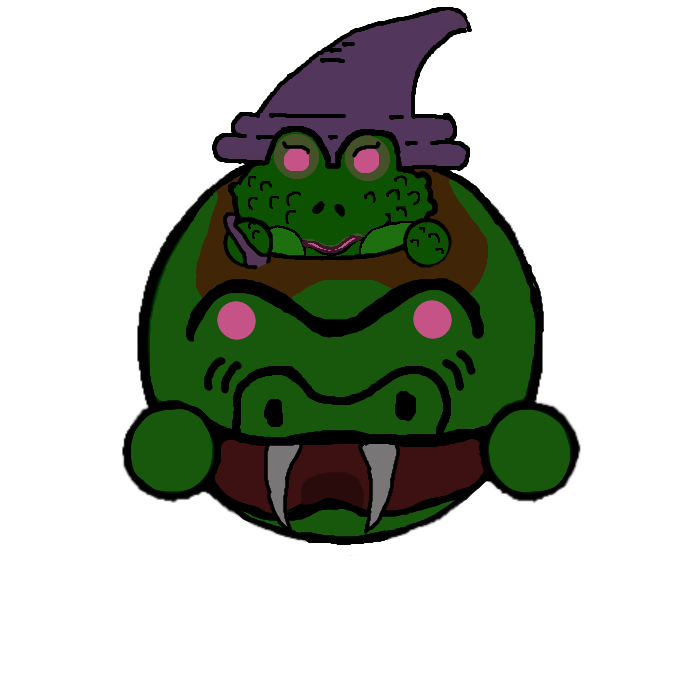
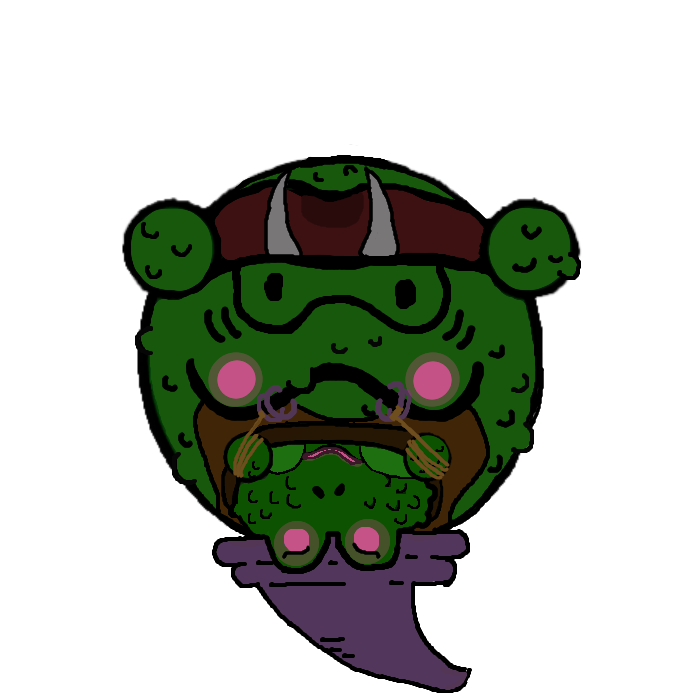
mounting and clouds

diff --git a/lib/monsters/witch.py b/lib/monsters/witch.py
@@ -5,12 +5,14 @@ from . import DefaultMonster
 from . import set_hitbox_monster
 from . import Flower
 
-#2 montures ? semi-invisible ?
+#2 montures ? semi-invisible ? little diamonds around wand ?
 
 class   Witch(DefaultMonster):
     name = "witch"
-    lives = 50
+    lives = 160
+    lives_dismount = 60
     id_nb = 17
+    cloud_speed = 6
 
     @classmethod
     def build_class(cls):
@@ -24,6 +26,11 @@ class   Witch(DefaultMonster):
         cls.img_invisible = cls.tools.set_imgs(cls.env.img_folder + 'monsters/', cls.name + '_invisible', cls.dimensions)
         cls.img_dead = cls.tools.set_imgs(cls.env.img_folder + 'monsters/', cls.name + '_dead', cls.dimensions)
         cls.img_possessed = cls.tools.set_imgs(cls.env.img_folder + 'monsters/', cls.name + '_possessed', cls.dimensions)
+        cls.img_mounting = cls.tools.set_imgs(cls.env.img_folder + 'monsters/', cls.name + '_mounting', cls.dimensions)
+        cls.img_mounting_injured = cls.tools.set_imgs(cls.env.img_folder + 'monsters/', cls.name + '_mounting_injured', cls.dimensions)
+        cls.img_mounting_spelling = cls.tools.set_imgs(cls.env.img_folder + 'monsters/', cls.name + '_mounting_spelling', cls.dimensions)
+        cls.img_mounting_cloud = cls.tools.set_imgs(cls.env.img_folder + 'monsters/', cls.name + '_mounting_cloud', cls.dimensions)
+        cls.dismount_effect = cls.env.mod.objects.DismountEffect.build_class(cls.env, cls.dimensions)
         cls.spore  = cls.env.mod.bullets.Spore.build_class(cls.env)
         cls.flower  = Flower.build_class(cls.env)
         return cls
@@ -58,7 +65,8 @@ class   Witch(DefaultMonster):
 
     def __init__(self, env, x, y):
         self._father_init(x, y)
-        self.hitbox = set_hitbox_monster(env, self)
+        self.hitbox = set_hitbox_monster(env, self, 0.46)
+        self.hitbox_small = set_hitbox_monster(env, self)
         self.env = env
 
         self.rapidity = randint(6, 10)
@@ -66,11 +74,12 @@ class   Witch(DefaultMonster):
         self.spelling = 0
         self.sneaking = False
         self.rushing = True
-        #self.spell_type = [self.frogifying, self.spawn_flower, self.to_sneak]
-        self.spell_type = [self.to_sneak]
+        self.mounting = True
+        self.clouding = 0
+        self.spell_type = [self.frogifying, self.spawn_flower]
+        #self.spell_type = [self.to_sneak]
         self._next_spell()
         self.walking_dead = False
-
 
     def hitted(self, attack=1):
         if self.invulnerable:
@@ -83,8 +92,14 @@ class   Witch(DefaultMonster):
             self.injured = self.injured_gradient
             self.lives -= attack
             self.lives = 0 if self.lives < 0 else self.lives
-            if not self.lives:
-                return self.id_nb, 1
+            if self.mounting and self.lives < self.lives_dismount:
+                self.mounting = False
+                self.reset_bad_effect()
+                self.invulnerable += 140
+                self.clouding = 90
+                self.rapidity += self.cloud_speed
+                self.hitbox = self.hitbox_small
+            return self.id_nb, attack
         return None, None
 
     def _action(self):
@@ -114,14 +129,25 @@ class   Witch(DefaultMonster):
                 img = self.img_possessed[self.direction]
             else:
                 img = self.img_dead[self.direction]
+        elif self.clouding:
+            img = self.img_mounting_cloud[self.direction]
         elif self.sneaking:
             img = self.img_invisible[self.direction]
         elif self.spelling:
-            img = self.img_spelling[self.direction]
+            if self.mounting:
+                img = self.img_mounting_spelling[self.direction]
+            else:
+                img = self.img_spelling[self.direction]
         elif self.injured:
-            img = self.img_injured[self.direction]
+            if self.mounting:
+                img = self.img_mounting_injured[self.direction]
+            else:
+                img = self.img_injured[self.direction]
         else:
-            img = self.img[self.direction]
+            if self.mounting:
+                img = self.img_mounting[self.direction]
+            else:
+                img = self.img[self.direction]
         self.tools.display(self.env, img, self.x, self.y, fitting)
         if self.lives and self.invulnerable:
             self.tools.display(self.env, self.img_invulnerable[self.direction], self.x, self.y, fitting)
@@ -138,6 +164,9 @@ class   Witch(DefaultMonster):
 
         self.sneaking = False
         self.rushing = True
+        if self.clouding:
+            self.clouding = False
+            self.rapidity -= self.cloud_speed
 
         while self.degeneration:
             if self.env.walking_dead:
@@ -163,6 +192,14 @@ class   Witch(DefaultMonster):
 
         if not self.lives:
             return
+        if self.clouding:
+            self.clouding -= 1
+            if not self.clouding:
+                self.rapidity -= self.cloud_speed
+                self.env.objects.append(self.dismount_effect(self.x, self.y))
+                self.spell_type.append(self.to_sneak)
+            return
+
         if self.spelling:
             self.spelling -= 1
             if not self.spelling:

diff --git a/lib/players/score.py b/lib/players/score.py
@@ -14,7 +14,7 @@ class   Score:
         self.img_total = player.img[0]
         self.list = ['zombie', 'cyclops', 'jack_lantern', 'daemon', 'minion', 'necromancer', 'harpy', 'ent', 'nyx', 'tentacle', 'piranha', 'kraken', 'dark_knight', 'villager', 'garou', 'alchemist', 'fly', 'witch', 'devourer', 'graeae', 'gargamel_score', 'mother_of_the_vermine', 'lamb', 'vermine']
         self.kills = [0, 0, 0, 0, 0, 0, 0, 0, 0, 0, 0, 0, 0, 0, 0, 0, 0, 0, 0, 0, 0, 0, 0, 0]
-        self.values = [1, 4, 2.5, 0.135, 2, 7.5, 3, 0.09, 0.125, 0.5, 3, 0.12, 11, 1.5, 2.5, 4, 3, 2, 0.1, 0.135, 0.13, 4, 0.5, 0.34]
+        self.values = [1, 4, 2.5, 0.135, 2, 7.5, 3, 0.09, 0.125, 0.5, 3, 0.12, 11, 1.5, 2.5, 4, 3, 0.09, 0.1, 0.135, 0.13, 4, 0.5, 0.34]
         self.img = []
         for name in self.list:
             self.load_img(env, name, dimensions)

diff --git a/lib/objects/dismount_effect.py b/lib/objects/dismount_effect.py
@@ -1,0 +1,23 @@
+import pygame
+
+class   DismountEffect:
+    disappear = False
+
+    @classmethod
+    def build_class(cls, env, dimensions):
+        cls.img = pygame.transform.scale(pygame.image.load(env.img_folder + 'objects/' + 'dismount_effect.png'), (dimensions, dimensions))
+        return cls
+
+    def __init__(self, x, y):
+        self.x = x
+        self.y = y
+        self.time = 0
+
+    def display(self, env):
+        env.mod.tools.display(env, self.img, self.x, self.y)
+
+    def update(self):
+        self.time += 1
+        if self.time > 9:
+            self.disappear = True
+

diff --git a/lib/objects/__init__.py b/lib/objects/__init__.py
@@ -5,6 +5,7 @@ from .weapon import Weapon
 from .vermine_squeeze import VermineSqueeze
 from .blood import Blood
 from .vampire_metamorphosis import VampireMetamorphosis
+from .dismount_effect import DismountEffect
 from .frogified import Frogified
 from .frogified_large import FrogifiedLarge
 from .fog import Fog
